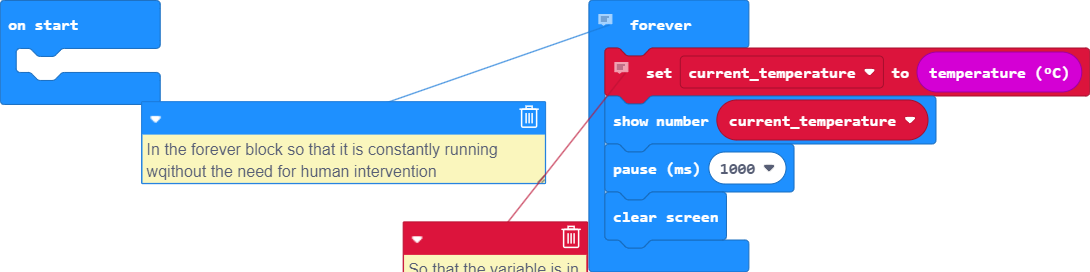
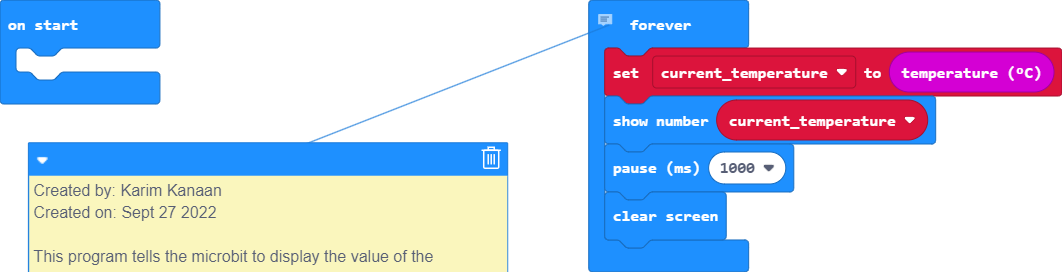
Update main.blocks, main.ts

diff --git a/main.ts b/main.ts
@@ -1,7 +1,9 @@
 let current_temperature = 0
-// In the forever block so that it is constantly running wqithout the need for human intervention
+// Created by: Karim Kanaan
+// Created on: Sept 27 2022
+// 
+// This program tells the microbit to display the value of the temperature variable
 basic.forever(function () {
-    // So that the variable is in celsius format
     current_temperature = input.temperature()
     basic.showNumber(current_temperature)
     basic.pause(1000)
